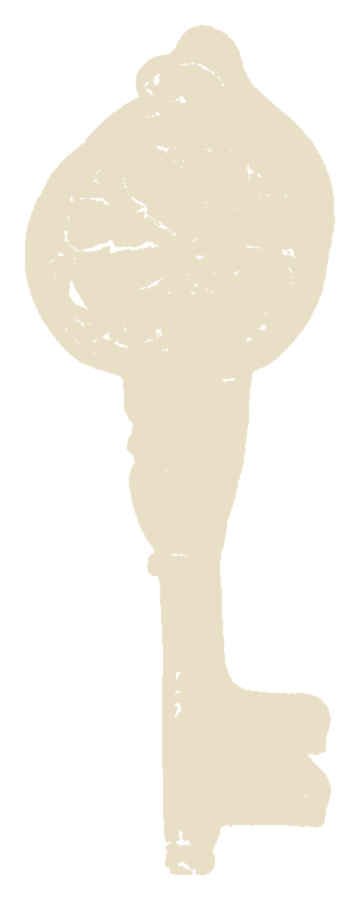
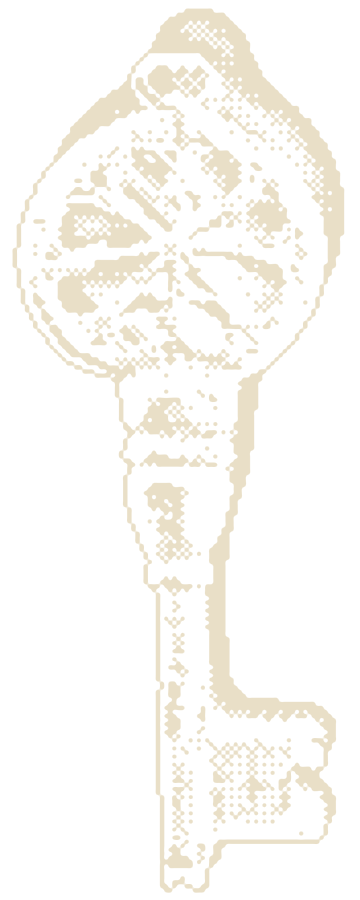
Grimorio, llaves y daga rehechos como grabado; arreglo movil; candidatas P.1/P.4 e informe QA

diff --git a/src/components/altar.css b/src/components/altar.css
@@ -249,6 +249,8 @@ body:has(.blood) nav.top a, body:has(.blood) nav.top button { text-shadow: 0 0 6
   .crest { position: relative; left: auto; top: auto; transform: none; width: 100%; grid-column: 1 / -1; padding-top: 2rem; }
   .whisper { display: none; }
   .obj { position: relative; inset: auto !important; width: 100% !important; max-width: 165px; transform: rotate(calc(var(--rot) * .4)); animation: none; }
+  .obj-book { max-width: 150px; }
+  .obj-key { max-width: 130px; }
   .obj-mirror { max-width: 90px; }
   .obj-deck { max-width: 110px; }
   .obj-ball { max-width: 120px; }
@@ -265,7 +267,7 @@ body:has(.blood) nav.top a, body:has(.blood) nav.top button { text-shadow: 0 0 6
     transform: none !important;
   }
   .obj .tag::before { display: none; }
-  .obj .lift { opacity: 1; }
+  .obj .lift { opacity: 1; width: 100%; }
   .obj { display: flex; flex-direction: column; align-items: center; }
   .altar .obj-dagger, .altar .obj-poison { display: none; }
   /* el candelabro se queda en movil: es la intro y el interruptor de tema */

diff --git a/docs/LICENCIAS.md b/docs/LICENCIAS.md
@@ -10,6 +10,8 @@ Pie de la web (`Base.astro`) y README llevan los créditos agrupados por autor; 
 | --- | --- | --- |
 | Fuente **Billa Mount**: archivo = demo "just for personal use" de Kana Widana / Alit Design (© 2020) | Alto, **aceptado por Ann (decisión 2026-11-26; no volver a preguntar)** | Nada ahora. Reabrir solo si Ann compra la licencia (~17 $, Fontspring) o pasa a Ballet. |
 | **`frame.webp`** (marco ovalado de forja): imagen aportada por Ann, origen sin confirmar. Es el marco en uso de todos los retratos | Alto | Ann: de dónde salió; o sustituir por uno libre (tarea 2.5). |
+| **`ball-3.webp` y `ball-4.webp`** (bola de cristal de prueba; `ball-4` roja es la de la portada por defecto, `?ball=3` la otra): de Pinterest, aportadas por Ann; autor y licencia desconocidos | Alto | Ann: enlace original de cada una; si no hay licencia libre, sustituir por una libre (Met `ball.webp` CC0 ya está en el repo) o retirar antes de publicar en `main` (P.2). Nota: el montaje usa textura de ball-3. |
+| **`moth-brahmaea.webp` y `moth-saturnia.webp`** (candidatas de polilla, activas con `?moth=b` / `?moth=s`): origen y licencia no constan en el repo | Medio | Image-alchemist/Ann: indicar archivo de Commons y autor de cada una antes de elegirla (P.1). Si no se confirman, no dejarlas fijas. |
 | Elvira: personaje registrado y derechos de imagen de Cassandra Peterson | Medio | Presentado como homenaje, solo fotos CC BY 2.0 con crédito; nunca dibujada ni como marca. |
 
 ## Imágenes (`public/objetos/` y `public/objetos/ink/`)
@@ -29,6 +31,8 @@ Pie de la web (`Base.astro`) y README llevan los créditos agrupados por autor; 
 | moth, moth-pepper, deathshead | Didier Descouens (MHNT), Wikimedia Commons | CC BY-SA 4.0 | por confirmar (archivos: *Acherontia atropos MHNT dos / Tête de mort*, *Biston betularia male dorsal*) | sí (con aviso de misma licencia) | ok |
 | tarot | Tarot World Project, *XVII L'Étoile*, Nicolas Conver 1760 | CC BY-SA 4.0 | por confirmar | sí | ok |
 | tarot-priestess, tarot-empress | Tarot World Project, *La Papesse* y *L'Imperatrice*, Nicolas Conver 1760 (Commons: File:II_LA_PAPESSE_Nicolas_Conver_Tarot_1760.jpg y File:II_L%27IMP%C3%89RATRICE_Nicolas_Conver_Tarot_1760.jpg) | CC BY-SA 4.0 | https://commons.wikimedia.org/wiki/File:II_LA_PAPESSE_Nicolas_Conver_Tarot_1760.jpg | si (mismo credito que L'Etoile) | ok |
+| **ball-3, ball-4** (bola de cristal; ball-4 es la predeterminada en la portada) | Pinterest, aportadas por Ann; autor desconocido | **Sin confirmar** | por confirmar | no | **sin confirmar** (riesgo; no pasar a `main` sin origen) |
+| **moth-brahmaea, moth-saturnia** (candidatas, solo con `?moth=b`/`?moth=s`) | Desconocido (no consta en el repo; *Brahmaea* y *Saturnia pyri*) | **Sin confirmar** | por confirmar | no | **sin confirmar** (no fijar ni publicar hasta documentar) |
 | blood-drip, blood-drop, elvira-iris-l/r | Generadas por código (propias) | Propias | n/a | n/a | ok |
 | elvira-a (y `elvira-a-eyes`) | Orange County Archives, *Elvira promoting Knott's Berry Farm's Halloween Haunt* (35859341932) | CC BY 2.0 | por confirmar (solo consta el ID de Flickr) | sí | ok |
 | elvira-c | Orange County Archives, misma foto (36030656275) | CC BY 2.0 | https://commons.wikimedia.org/wiki/File:Elvira_promoting_Knott%27s_Berry_Farm%27s_Halloween_Haunt_(36030656275).jpg | sí | ok |
@@ -53,4 +57,5 @@ No se han comprobado una a una las licencias de las dependencias transitivas. La
 
 ## Cambios de créditos hechos en esta auditoría
 - Pie (`src/layouts/Base.astro`): Elvira con "via Wikimedia Commons, tribute, no endorsement" y nueva línea del marco de Cuvilliés (dominio público).
+- Revisión 2026-11-27 (develop): grimorio (W.539 CC0), llaves (Rijksmuseum CC0), daga (Walters 5177 PD) y murciélagos (Haeckel, Specht PD) coinciden con pie y README; no hacía falta tocar el pie. Nota: el pie ya no lleva la línea de Cuvilliés (marco retirado, no hace falta). Pendientes: ball-3/4 y polillas Brahmaea/Saturnia sin origen.
 - README: Billa Mount en tipografías, IDs de Flickr de las fotos de Elvira, marco `frame.webp` como origen sin confirmar y marco Cuvilliés; quitada la mención a "la figura de About" (ya no existe).

diff --git a/docs/img/candidatas-polilla/CANDIDATAS-P1b.md b/docs/img/candidatas-polilla/CANDIDATAS-P1b.md
@@ -1,0 +1,20 @@
+# Polillas candidatas P.1 (ronda 2)
+
+Seis opciones nuevas, todas fotos de ejemplares reales pasadas a dos tintas (umbral local sobre CLAHE + filete).
+Hoja comparativa: `hoja-p1b.png`. Archivos: `<nombre>.webp` (noche, hueso) y `<nombre>-ink.webp` (dia, tinta #1a1611).
+Ninguna esta copiada a `public/`. Generadas con `moth.mjs` (Node + sharp; ver scratchpad de la sesion).
+
+| nombre | especie | autor | licencia | URL (Wikimedia Commons) | notas |
+| --- | --- | --- | --- | --- | --- |
+| chersis | Sphinx chersis (esfinge del fresno), hembra | Didier Descouens (MHNT) | CC BY-SA 4.0 | https://commons.wikimedia.org/wiki/File:Sphinx_chersis_MHNT_CUT_2010_0_327_Wisconsin,_Sauk_County_female_dorsal.jpg | Alas muy estrechas y cuerpo grueso: la mas "polilla". Fondo negro, mascara por luminancia. |
+| amyntor | Ceratomia amyntor (esfinge del olmo) | Didier Descouens (MHNT) | CC BY-SA 4.0 | https://commons.wikimedia.org/wiki/File:Ceratomia_amyntor_MHNT_CUT_2010_0_406_Chaffeys_Locks_Leeds_Co_Ontario,_male_dorsal.jpg | Alas con nervios muy grabados, abdomen largo. |
+| manduca | Manduca sexta (esfinge del tabaco), macho | Didier Descouens (MHNT) | CC BY-SA 4.0 | https://commons.wikimedia.org/wiki/File:Manduca_sexta_MHNT_CUT_2010_0_104_Caranavi,_La_Paz_Bolivia_male_dorsal.jpg | Abdomen rayado, parecido a la esfinge actual pero mas oscura. |
+| fraxini | Catocala fraxini (ala-lazo azul) | Florida Museum of Natural History (MGCL 1099557) | CC0 | https://commons.wikimedia.org/wiki/File:Catocala_fraxini_MGCL_1099557_D.jpg | Alas anteriores moteadas, posteriores negras con banda. Recortada con diferencia al fondo degradado (--diff 30). |
+| maestosa | Catocala maestosa | Florida Museum of Natural History (MGCL 1112027) | CC0 | https://commons.wikimedia.org/wiki/File:Catocala_maestosa_MGCL_1112027_D.jpg | La mas oscura y fea; posteriores casi negras (en noche quedan huecas con solo el borde). |
+| nupta | Catocala nupta (ala-lazo roja) | Florida Museum of Natural History (MGCL 1098078) | CC0 | https://commons.wikimedia.org/wiki/File:Catocala_nupta_MGCL_1098078_D.jpg | Antenas largas, dibujo de las posteriores muy bonito en tinta. |
+
+## Valoracion
+- Mejor encaje con "cuerpo grueso, alas estrechas, estilo grabado": **chersis** y **amyntor** (esfinges); **nupta** si se admite una alas anchas.
+- Las MHNT exigen credito CC BY-SA (Didier Descouens, ya acreditado en el pie por las otras polillas). Las MGCL son CC0, sin obligacion de credito (se puede citar igualmente).
+- Pendiente si se elige una: copiar a `public/objetos/` y `public/objetos/ink/`, acreditar y quitar la actual.
+- Sin grabados PD (Biodiversity Heritage Library/Commons) adecuados: los grabados de esfinges hallados son laminas a color de baja resolucion; Commons limita peticiones (429).

diff --git a/docs/img/candidatas-decoracion/CREDITOS.md b/docs/img/candidatas-decoracion/CREDITOS.md
@@ -1,0 +1,23 @@
+# Candidatas de decoracion (P.4) — autor / licencia / URL
+
+Todas en dos tintas: `x.webp` (hueso, noche) y `x-ink.webp` (tinta, dia). Hoja comparativa: `hoja.png` (izq. noche, der. dia). Ficheros en Commons: https://commons.wikimedia.org/wiki/File:<titulo>
+
+| Candidata | Original (Commons) | Autor / fuente | Licencia |
+| --- | --- | --- | --- |
+| tijeras-coreanas | Korean - Scissors - Walters 541959.jpg | Walters Art Museum | PD |
+| tijeras-americanas | Walter Praefke, Scissors, 1939, NGA 25526.jpg | Walter Praefke, National Gallery of Art (Index of American Design) | CC0 |
+| cruz-esmalte | Mosan Workshop - Reliquary Cross - Walters 4498.jpg | Walters Art Museum | PD |
+| cruz-bizantina | Byzantine - Pectoral Cross with the Virgin and Child, Saints Peter, John, and George - Walters 542367.jpg | Walters Art Museum | PD |
+| cruz-cristal | Italian - Reliquary Cross - Walters 44303 - Back.jpg | Walters Art Museum | PD |
+| colgante-bizantino | Byzantine - Pectoral Cross with the Crucifixion and the Virgin - Walters 542629.jpg | Walters Art Museum | PD |
+| encaje-collar | Unknown artist - Bobbin Lace Collar - 1921.384 - Cleveland Museum of Art.jpg | Cleveland Museum of Art | CC0 |
+| encaje-cuello | Unknown artist - Bobbin Lace Collar - 1945.95 - Cleveland Museum of Art.jpg | Cleveland Museum of Art | CC0 |
+| encaje-hojas | Unknown artist - Bobbin Lace (Appliqué) Collar - 1927.290 - Cleveland Museum of Art.jpg | Cleveland Museum of Art | CC0 |
+| corazon-lazo | History of lace (1902) (14763383171).jpg (gorro de encaje con corazon alado y huesos; recorte) | Internet Archive Book Images, Flickr (libro de 1902) | No restrictions (PD) |
+
+## Valoracion
+- Mejores: tijeras-coreanas, tijeras-americanas (limpias, trazo grueso), cruz-esmalte, corazon-lazo (corazon con alas y huesos, muy en tono), encaje-hojas.
+- Aceptables: cruz-bizantina, encaje-cuello, encaje-collar (textura densa; sirve de marco/fondo mas que de objeto).
+- Flojas (restos de fondo/sombra): cruz-cristal, colgante-bizantino.
+- Sin resolver: ROSARIO (en Commons libre no hay foto limpia de un rosario; solo cuentas/colgantes de rosario flamencos y el colgante frances Walters 71326 con cabeza de Cristo/Virgen/Muerte, descartado por ruido) y CORAZON ANATOMICO / SAGRADO (probados Wellcome L0004130 y V0007778EC, ambos CC BY 4.0, y Bethune "Christ showing his sacred heart": salian mal en alto contraste). Propuesta: buscar en Wellcome una lamina de corazon aislado o usar el corazon alado de corazon-lazo.
+- Scripts usados: `proc-decoracion.mjs` + `cfg-decoracion.json` (Node + sharp; leen originales de `raw/`, no incluidos).

diff --git a/docs/qa/2026-11-27-movil-tactil/informe.md b/docs/qa/2026-11-27-movil-tactil/informe.md
@@ -1,0 +1,19 @@
+# QA P.5 movil tactil (390x844, hasTouch) - 2026-11-27
+
+Veredicto: NO PASA (grimorio y llavero invisibles en movil).
+
+## Fallos
+1. GRAVE - Grimorio y llavero no se ven en movil (0x0). `.obj-book` y `.obj-key` son flex en columna (`@media (max-width:760px)`, altar.css ~l.251) y su `.lift` colapsa a ancho 0 porque `.grimoire` y `.keys` solo tienen hijos `position:absolute` (la polilla y la carta tienen imagen en flujo y si salen). Solo se ve el rotulo About/Contact. Arreglo probable: `.obj .lift { width:100% }` en el media query. Capturas: 04a, 10-abajo-movil-*.
+2. MEDIO - Intro a oscuras: en movil el candelabro (#candle) esta en y~1262 px, dos pantallas por debajo; la primera vista no lo muestra y solo la pista de 6 s ayuda. Captura 01.
+3. MEDIO - Llavero: es un `<a href=/contact/>` y el primer toque navega directo; `turned` y el balanceo (hover) no se ven en tactil, no hay "primer toque abre" como en grimorio/carta. (Con el fallo 1 ni se ve.)
+4. BAJO - Abanico de Code: el primer toque abre, a los 5 s se cierra, el segundo toque entra en /code/. Correcto, pero la carta derecha del abanico queda cortada por el borde derecho (sin desbordamiento horizontal). Captura 05.
+5. BAJO - Murcielago: el toque funciona (vuela, desaparece, sin errores), pero el boton mide 31x49 px (<44 px recomendado en tactil).
+
+## Pasa
+- Grimorio: primer toque pone `fanned` (no navega), a los 5 s se quita, segundo toque va a /about/ (la logica; visualmente no verificable por el fallo 1).
+- Carta de Code: toque 1 abanico, toque 2 navega a /code/.
+- Murcielago: sale volando al tocar y no navega.
+- Sin desbordamiento horizontal (390/390), sin errores de consola ni respuestas 4xx/5xx.
+- Candelabro: un toque enciende y revela la mesa.
+
+Nota: Playwright `tap()` hace scroll al elemento; para tocar el candelabro a oscuras hay que usar `p.tap('#candle')`, no coordenadas sin desplazar.

diff --git a/docs/ROADMAP.md b/docs/ROADMAP.md
@@ -144,3 +144,5 @@ Objetivo: ver `develop` en una URL de vista previa y `main` en `arcanasacra.net`
 | 2026-11-27 | portada | Claude + image-alchemist | Murcielago nuevo: posado en el marco de Elvira (Specht, Brehms Tierleben 1911, PD), al pulsarlo vuela (Haeckel, Kunstformen der Natur, Chiroptera, PD) fuera de pantalla y vuelve a posarse a los 20-40 s. Retirado el murcielago que cruzaba. Falta anadir creditos de Haeckel/Specht al pie y LICENCIAS.md. |
 | 2026-11-27 | portada | Claude | Bola roja (4) fija por defecto (`?ball=3` para la 3); apuntados pendientes P.1-P.5 para la siguiente sesion. |
 | 2026-11-27 | portada | Claude | Grimorio, llaves y daga con trazo mas grueso (`scripts/thicken.mjs`: dilata el contorno; originales en git). Dia: contorno fuerte +2 px; noche: +1 px. |
+| 2026-11-27 | portada | Claude | Grimorio, llaves y daga rehechos desde las fotos con `scripts/engrave.mjs` (trama de grabado a tamano de pantalla, dos tintas); sustituye al engrosado (`thicken.mjs`, retirado). Movil: `.obj .lift` a ancho completo (grimorio y llavero se veian a 0x0). Fotos de origen: LICENCIAS.md. |
+| 2026-11-27 | P.1, P.4, P.5 | agentes | P.1: 6 polillas candidatas (`docs/img/candidatas-polilla/CANDIDATAS-P1b.md`); P.4: candidatas de encaje, cruces, tijeras y corazon (`docs/img/candidatas-decoracion/`); P.5: informe en `docs/qa/2026-11-27-movil-tactil/`. Pendiente de Ann: elegir polilla (P.1) y decoracion (P.4). |

diff --git a/README.md b/README.md
@@ -75,6 +75,8 @@ Convertidas a alto contraste con `scripts/contrast.py` a partir de:
 - Andreas Vesalius, *De humani corporis fabrica* (dominio público): esqueleto.
 - Wellcome Collection, frasco de veneno verde (CC BY 4.0).
 - Marco ovalado del medallón (`frame.webp`): imagen aportada por Ann; **origen sin confirmar** (riesgo anotado en `docs/LICENCIAS.md`).
+- Bola de cristal de prueba (`ball-3.webp`, `ball-4.webp`): de Pinterest, aportadas por Ann; **origen sin confirmar** (riesgo anotado en `docs/LICENCIAS.md`).
+- Polillas candidatas (`moth-brahmaea.webp`, `moth-saturnia.webp`): origen **sin confirmar** hasta elegir una (ver `docs/LICENCIAS.md`).
 - Orange County Archives, fotos promocionales de Elvira para Knott's Berry Farm (CC BY 2.0), Wikimedia Commons: retratos de la portada y del gabinete (IDs de Flickr 35859341932, 36030656275, 35641035160). Recortadas y pasadas a alto contraste.
   Aviso: Elvira es un personaje registrado y la imagen de Cassandra Peterson tiene derechos de imagen; se usa como homenaje, no como respaldo.
 - Didier Descouens, Wikimedia Commons (CC BY-SA 4.0): esfinge de la calavera (*Acherontia atropos*) y polilla moteada (*Biston betularia*).
